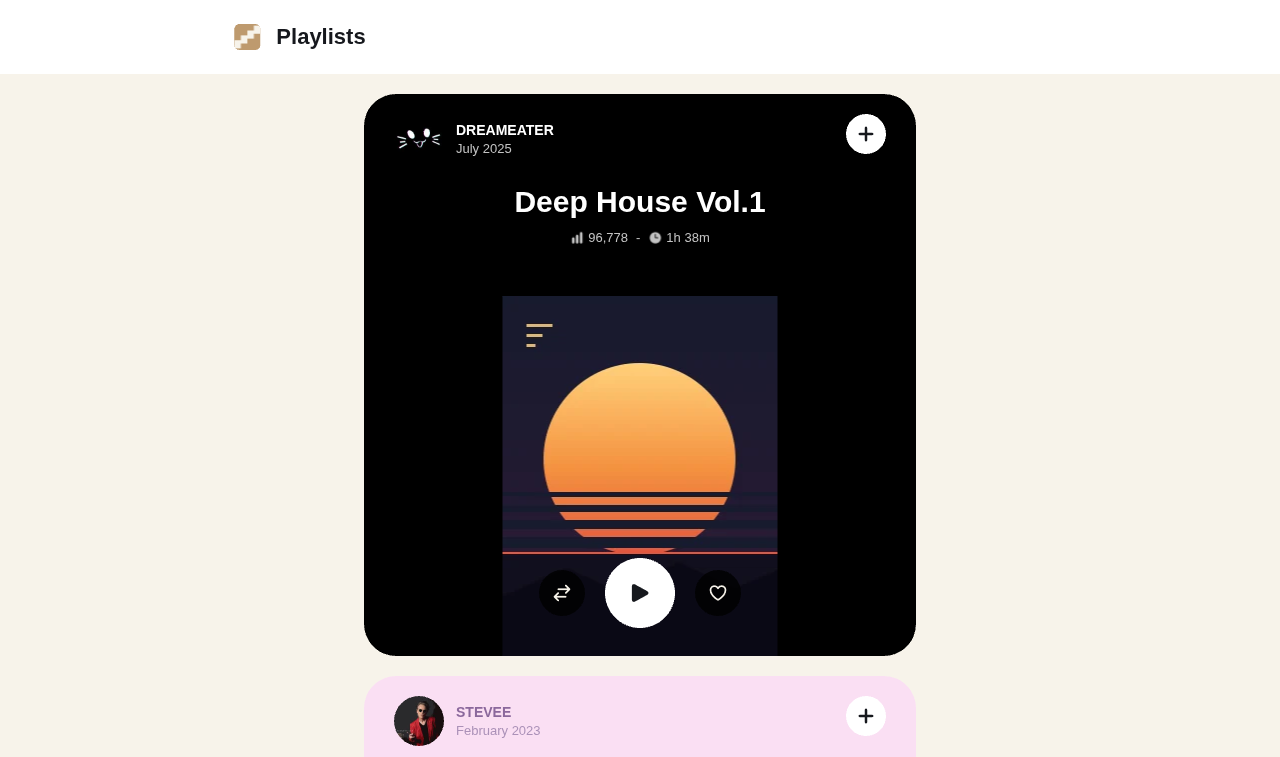
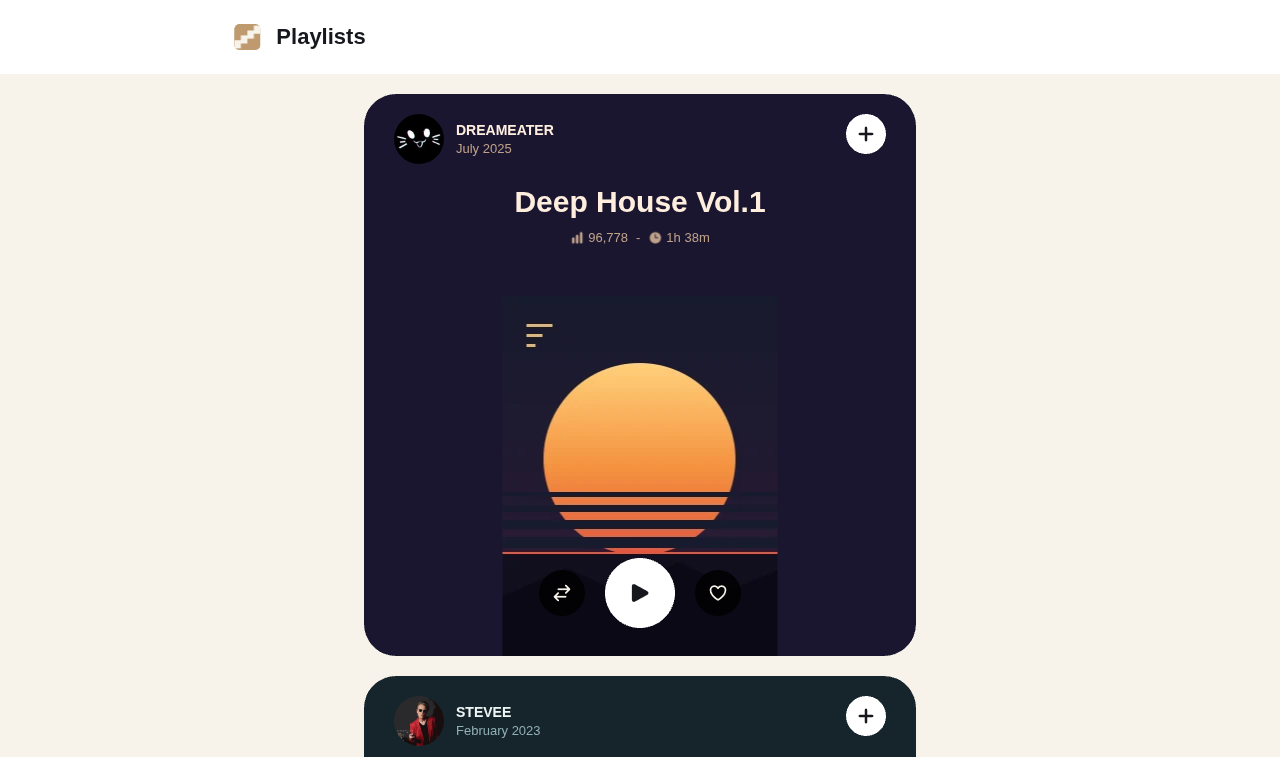
feat(playground): each card's ground comes out of its own sleeve
The card colours were the demo's originals and the artwork is not, so
they had nothing to do with each other: a pale pink card behind a
near-black video, a periwinkle card behind a deep teal cover.

Each background is now taken from the artwork it holds, sampled rather
than guessed. The sunset card is its own sky, lifted enough that the
sleeve still reads as a panel. The video card is near enough to the
video's ground that the frame stops being a rectangle on a card and
the rings and the coral carry it. The third is deeper than its cover's
teal so the coral diagonal has something to be bright against. Plum,
near-black teal, mid teal: one family, three tones, on the page's warm
cream.

Four candidates were rendered for the video card before this one was
picked. Cream left the artwork floating; coral swallowed the diagonal
that makes the composition; plum was card one again.

The credits line loses the photographers and the videographer, whose
work is no longer here, and says where the art does come from. It
keeps Ehsan Rahimi, because the concept is still the thing being
replicated, and it keeps Audius, because every track still is.

The card tile is recoloured to the new card. Screenshot baselines and
the accessibility report regenerated: nineteen routes at 0.000%, and
the report reads back the sentence that changed.

Changed region(s): [[0.2812, 0.1215, 0.7188, 1.0]]

diff --git a/apps/playground/src/examples/transitions/playlists.ts b/apps/playground/src/examples/transitions/playlists.ts
@@ -31,25 +31,32 @@ export interface CardDesign {
 
 export const CARDS: readonly CardDesign[] = [
   {
+    // The sunset sleeve's own sky, lifted a little so the artwork still
+    // reads as a panel on the card rather than bleeding into it.
     id: '1',
-    background: '#000000',
-    text: '#ffffff',
-    secondaryText: '#c3c3c3',
+    background: '#1b1630',
+    text: '#ffeede',
+    secondaryText: '#bfa189',
     media: { kind: 'image', url: '/transitions/portrait-tall.webp', width: 275, height: 360 }
   },
   {
+    // Near enough to the video's own ground that the frame stops being
+    // a rectangle sitting on a card and starts being part of it. The
+    // rings and the coral diagonal are what should carry this one.
     id: '2',
-    background: '#fadff3',
+    background: '#16242c',
     backgroundImage: '/transitions/card-texture.png',
-    text: '#8b689c',
-    secondaryText: '#ab91b8',
+    text: '#eef6f5',
+    secondaryText: '#8fb0b4',
     media: { kind: 'video', url: '/transitions/motion-loop.mp4', width: 1280, height: 992 }
   },
   {
+    // Deeper than the artwork's own teal, so the coral diagonal in it
+    // has something to be bright against.
     id: '3',
-    background: '#6d75ff',
-    text: '#ffffff',
-    secondaryText: '#e1e1e1',
+    background: '#1f4a56',
+    text: '#f2fbf9',
+    secondaryText: '#a4c5c0',
     media: { kind: 'image', url: '/transitions/portrait-wide.webp', width: 414, height: 360 }
   }
 ];

diff --git a/apps/playground/src/examples/TransitionsExampleApp.tsx b/apps/playground/src/examples/TransitionsExampleApp.tsx
@@ -865,7 +865,7 @@ function HomeScreen(_inputs: Inputs<OutletProps>, ctx: ComponentContext): UiChil
             and the playlists are read from Audius on the application worker.
           </text>
           <text color={FAINT} fontSize={12} textAlign="center" textWrap="word" maxWidth={480}>
-            Original concept by Ehsan Rahimi. Photographs by Atikh Bana and Te NGuyen; video by Anna Shvets. Music from
+            Original concept by Ehsan Rahimi. The cover art and the video are generated for this example. Music from
             Audius, where every track belongs to the artist who uploaded it.
           </text>
           {offline}

diff --git a/apps/playground/accessibility/example-transitions.md b/apps/playground/accessibility/example-transitions.md
@@ -51,7 +51,7 @@ not be compared with anything.
 | button     | Play                                                                                                                                                                                                                                                                                     |        |       |
 | button     | Like this playlist                                                                                                                                                                                                                                                                       |        |       |
 | StaticText | A replica of Maxi Ferreira’s View Transitions demo, built on Gesso’s motion layer: shared elements are FLIP over the live scene graph rather than snapshots, the video decodes in the render worker through WebCodecs, and the playlists are read from Audius on the application worker. |        |       |
-| StaticText | Original concept by Ehsan Rahimi. Photographs by Atikh Bana and Te NGuyen; video by Anna Shvets. Music from Audius, where every track belongs to the artist who uploaded it.                                                                                                             |        |       |
+| StaticText | Original concept by Ehsan Rahimi. The cover art and the video are generated for this example. Music from Audius, where every track belongs to the artist who uploaded it.                                                                                                                |        |       |
 | StaticText | Offline: showing a saved copy of the playlists.                                                                                                                                                                                                                                          |        |       |
 | image      | Gesso                                                                                                                                                                                                                                                                                    |        |       |
 | StaticText | Playlists                                                                                                                                                                                                                                                                                |        |       |
